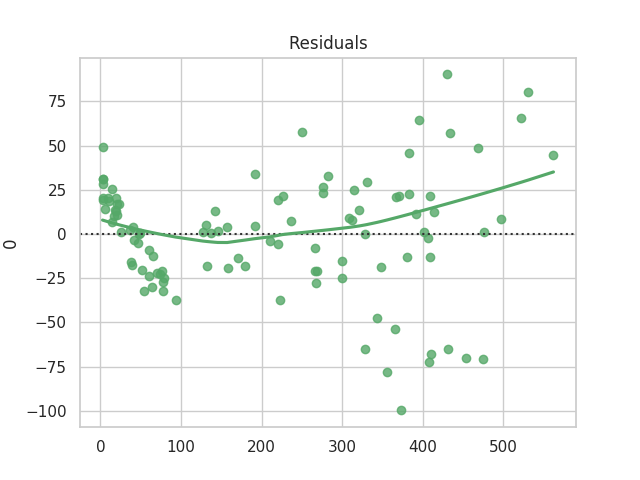
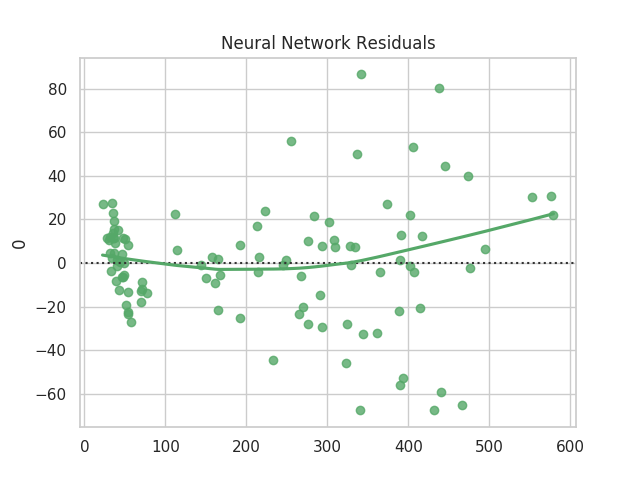
last commit before submission

diff --git a/ConditionAnalysis/ConditionAnalysis.py b/ConditionAnalysis/ConditionAnalysis.py
@@ -151,22 +151,22 @@ print(valid_cm)
 # plot the results
 
 # loss
-plt.plot(r.history['loss'], label='train loss')
-plt.plot(r.history['val_loss'], label='val loss')
-plt.legend()
-plt.xlabel('Epochs')
-plt.ylabel('Loss')
-plt.title("Conditional Classifier: Loss vs. Epochs")
-plt.savefig('loss-conditionclass.png')
+# plt.plot(r.history['loss'], label='train loss')
+# plt.plot(r.history['val_loss'], label='val loss')
+# plt.legend()
+# plt.xlabel('Epochs')
+# plt.ylabel('Loss')
+# plt.title("Conditional Classifier: Loss vs. Epochs")
+# plt.savefig('loss-conditionclass.png')
 
-#accuracies
+# #accuracies
 # plt.plot(r.history['acc'], label='train acc')
 # plt.plot(r.history['val_acc'], label='val acc')
 # plt.legend()
 # plt.xlabel('Epochs')
 # plt.ylabel('Accuracy')
 # plt.title("Conditional Classifier: Accuracy vs. Epochs")
-# plt.savefig('accuracies-conditionclass.png')
+# plt.savefig('accuracies-conditionclass-500.png')
 
 
 

diff --git a/MaterialClassifier/MaterialClassifier.py b/MaterialClassifier/MaterialClassifier.py
@@ -22,7 +22,7 @@ from glob import glob
 IMAGE_SIZE = [200, 200] 
 
 # training config - discovered this as optimal through trial and error
-epochs = 100
+epochs = 500
 batch_size = 20
 
 #set paths to training and validation data
@@ -160,13 +160,13 @@ print(valid_cm)
 # plt.savefig('loss-matclass.png')
 
 # accuracies
-plt.plot(r.history['acc'], label='train acc')
-plt.plot(r.history['val_acc'], label='val acc')
-plt.legend()
-plt.xlabel('Epochs')
-plt.ylabel('Accuracy')
-plt.title("Material Classifier: Accuracy vs. Epochs")
-plt.savefig('accuracies-matclass-1000.png')
+# plt.plot(r.history['acc'], label='train acc')
+# plt.plot(r.history['val_acc'], label='val acc')
+# plt.legend()
+# plt.xlabel('Epochs')
+# plt.ylabel('Accuracy')
+# plt.title("Material Classifier: Accuracy vs. Epochs")
+# plt.savefig('accuracies-matclass.png')
 
 
 # save the model to disk

diff --git a/neuralnetwork.py b/neuralnetwork.py
@@ -47,11 +47,11 @@ print(r2_score(y_test, y_prediction))
 cv = cross_validate(mlp, x_train, y_train, cv=5, return_train_score=False)
 print(cv)
 
-# #Residual Plot 
-# sns.set(style="whitegrid")
-# sns.residplot(y_prediction, y_test, lowess=True, color="g")
-# plt.title("Residuals")
-# plt.savefig("neuralnet-residuals.png")
+#Residual Plot 
+sns.set(style="whitegrid")
+sns.residplot(y_prediction, y_test, lowess=True, color="g")
+plt.title("Neural Network Residuals")
+plt.savefig("neuralnet-residuals.png")
 
 #test prediction with raw data before saving
 data = [1, 0, 0, 0, 8.21, 3.9, 0, 0, 1, 0, 0, 0, 1, 0] #observed value of 50

diff --git a/random-forest.py b/random-forest.py
@@ -44,7 +44,7 @@ print(cv)
 #Residual Plot 
 sns.set(style="whitegrid")
 sns.residplot(y_prediction, y_test, lowess=True, color="b")
-plt.title("Residuals")
+plt.title("Random Forest Residuals")
 plt.savefig("randomforest-residuals.png")
 
 #test prediction with raw data before saving

diff --git a/linear-regression.py b/linear-regression.py
@@ -51,7 +51,7 @@ print(cv)
 
 sns.set(style="whitegrid")
 sns.residplot(y_prediction, y_test, lowess=True, color="purple")
-plt.title("Residuals")
+plt.title("Linear Regression Residuals")
 plt.savefig("linearreg-residuals.png")
 
 #test prediction with raw data before saving
